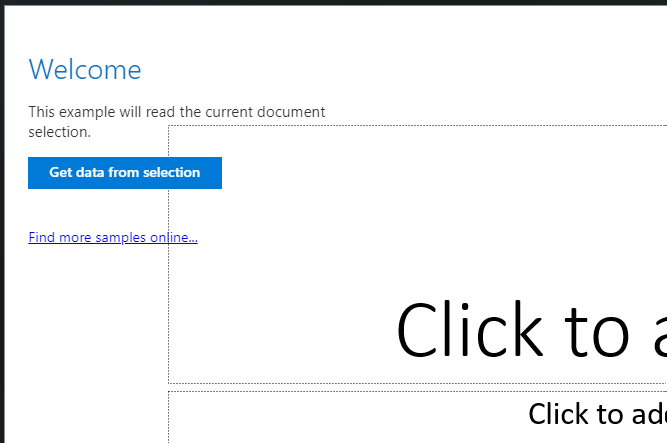
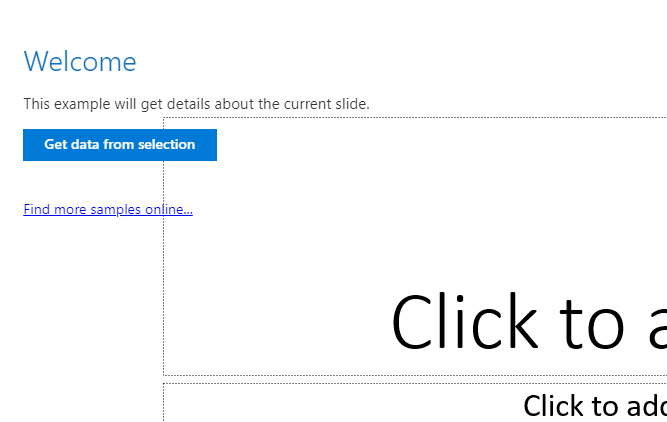
Update functionality

diff --git a/docs/quickstarts/powerpoint-quickstart-content.md b/docs/quickstarts/powerpoint-quickstart-content.md
@@ -1,7 +1,7 @@
 ---
 title: Build your first PowerPoint content add-in
 description: Learn how to build a simple PowerPoint content add-in by using the Office JS API.
-ms.date: 06/21/2024
+ms.date: 06/26/2024
 ms.service: powerpoint
 ms.localizationpriority: medium
 ---
@@ -20,29 +20,58 @@ In this article, you'll walk through the process of building a PowerPoint [conte
 
 1. In Visual Studio, choose **Create a new project**.
 
-2. Using the search box, enter **add-in**. Choose **PowerPoint Web Add-in**, then select **Next**.
+1. Using the search box, enter **add-in**. Choose **PowerPoint Web Add-in**, then select **Next**.
 
-3. Name your project and select **Create**.
+1. Name your project and select **Create**.
 
-4. In the **Create Office Add-in** dialog window, choose **Insert content into PowerPoint slides**, and then choose **Finish** to create the project.
+1. In the **Create Office Add-in** dialog window, choose **Insert content into PowerPoint slides**, and then choose **Finish** to create the project.
 
-5. Visual Studio creates a solution and its two projects appear in **Solution Explorer**. The **Home.html** file opens in Visual Studio.
+1. Visual Studio creates a solution and its two projects appear in **Solution Explorer**. The **Home.html** file opens in Visual Studio.
 
 ### Explore the Visual Studio solution
 
 [!include[Description of Visual Studio projects](../includes/quickstart-vs-solution.md)]
 
+### Update the code
+
+1. **Home.html** specifies the HTML that will be rendered in the add-in's task pane. In **Home.html**, find the `<p>` element that contains the text "This example will read the current document selection." and replace the entire element with the following markup then save the file.
+
+    ```html
+    <p class="ms-font-m-plus">This example will get details about the current slide.</p>
+    ```
+
+1. Open the file **Home.js** in the root of the web application project. This file specifies the script for the add-in. Find the `getDataFromSelection` function and replace the entire function with the following code then save the file.
+
+    ```js
+    // Reads data from current slide and displays a notification.
+    function getDataFromSelection() {
+        if (Office.context.document.getSelectedDataAsync) {
+            Office.context.document.getSelectedDataAsync(Office.CoercionType.SlideRange,
+                function (result) {
+                    if (result.status === Office.AsyncResultStatus.Succeeded) {
+                        showNotification('The slide details are:', '"' + JSON.stringify(result.value) + '"');
+                    } else {
+                        showNotification('Error:', result.error.message);
+                    }
+                }
+            );
+        } else {
+            app.showNotification('Error:', 'Reading selection data is not supported by this host application.');
+        }
+    }
+    ```
+
 ### Update the manifest
 
 1. Open the XML manifest file in the add-in project. This file defines the add-in's settings and capabilities.
 
-2. The `ProviderName` element has a placeholder value. Replace it with your name.
+1. The `ProviderName` element has a placeholder value. Replace it with your name.
 
-3. The `DefaultValue` attribute of the `DisplayName` element has a placeholder. Replace it with **My Office Add-in**.
+1. The `DefaultValue` attribute of the `DisplayName` element has a placeholder. Replace it with **My Office Add-in**.
 
-4. The `DefaultValue` attribute of the `Description` element has a placeholder. Replace it with **A content add-in for PowerPoint.**.
+1. The `DefaultValue` attribute of the `Description` element has a placeholder. Replace it with **A content add-in for PowerPoint.**.
 
-5. Save the file. The updated lines should look like the following code sample.
+1. Save the file. The updated lines should look like the following code sample.
 
     ```xml
     ...
@@ -58,9 +87,9 @@ In this article, you'll walk through the process of building a PowerPoint [conte
 
 1. Using Visual Studio, test the newly created PowerPoint add-in by pressing **F5** or choosing the **Start** button to launch PowerPoint with the content add-in displayed over the slide.
 
-2. In PowerPoint, add text to the slide, select any or all of the text, and then choose the **Get data from selection** button in the content add-in to get the text from the selection.
+1. In PowerPoint, choose the **Get data from selection** button in the content add-in to get details about the current slide.
 
-    ![The add-in content open in PowerPoint.](../images/powerpoint-quickstart-content-ui.png)
+    :::image type="content" source="../images/powerpoint-quickstart-content-ui.png" alt-text="The add-in content open in PowerPoint.":::
 
 [!include[Console tool note](../includes/console-tool-note.md)]
 
